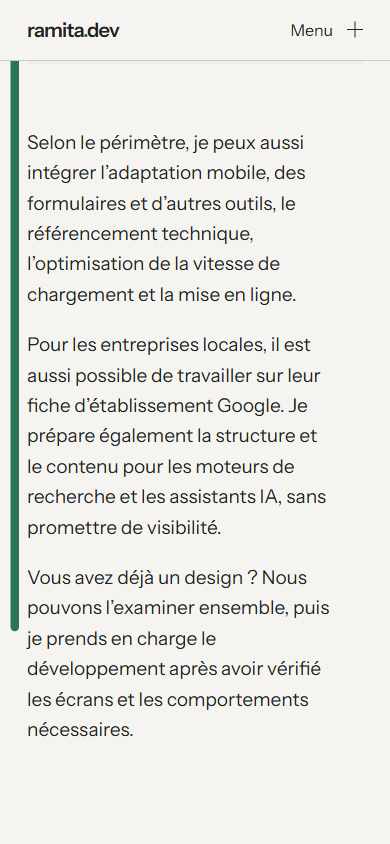
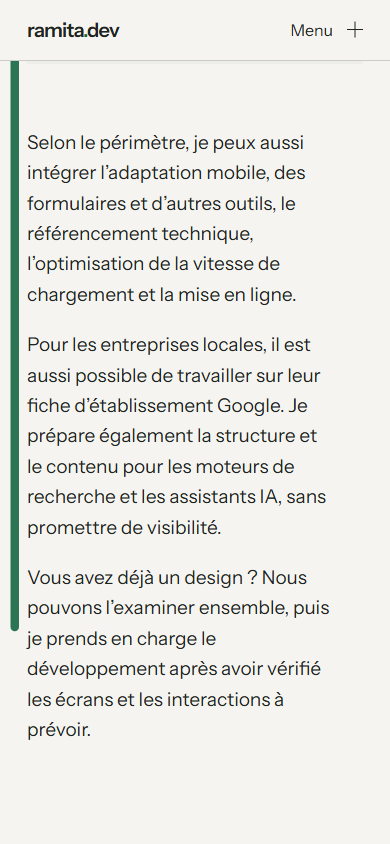
Update H8 report for final copy package

Changed region(s): [[0.4308, 0.8009, 0.8, 0.8626], [0.0615, 0.8318, 0.3385, 0.8934]]

diff --git a/qa/h8-report.md b/qa/h8-report.md
@@ -26,13 +26,13 @@ Ramiro detuvo la preparación/publicación antes de cargar el paquete actual a H
 
 - Corrección espacial de la línea: `progress()` ya no usa `data-ramiro-scene` para cambiar globalmente `[data-line-path]`. El path base queda en negro y el mismo path, progreso, nodos y timings se pinta de blanco sólo dentro de un `clipPath` basado en la caja real de `.about`; sus límites se recalculan en los rebuilds de layout/resize. H7 documentó una implementación global incorrecta y verificó color computado, no superposición espacial. La regresión vigente en `qa/h8-line-clipping-results.json` pasó otra vez después del nuevo copy: **31 estados**, cinco idiomas, 390/1440 px, ambos sentidos de scroll, resize, diez pares theme/accent, reduced motion y seis capturas; cero overflow, errores de consola, requests fallidos o fallos. Path y comandos conservan su estructura; diferencia máxima de coordenadas de referencia <0,01 CSS px. El pulso de 3,5 s, delay final de 0,8 s y fade de 0,18 s están sincronizados entre ambas representaciones.
 - Copy final de Servicios: Ramiro actualizó el segundo y tercer párrafo para evitar reiterar «puedo». ES exacto y versiones naturales EN/PT/FR/JA están en `src/content/locales.ts`, `prototypes/v2-h4/v2/ES-COPY-APPROVED.md` y `docs/locales/`. No cambiaron los demás textos, layout, estilos, motion ni código de geometría.
-- Commits de código: `d7850120a72af9f447cdb3fcf28c7bbf26b53cc3` (`Fix black accent path clipping in Ramiro scene`), `78e770dc5d63296dd8b50db9fb4b1bf8a01d0666` (`Align inverse Ramiro node pulse timing`) y `e3eb2a2b4caff95ba2a3a295ab8570d43aeb030f` (`Update Services copy before H8 release`). Push normal exitoso a `origin/main`; `e3eb2a2` es el commit fuente del paquete vigente.
+- Commits de código: `d7850120a72af9f447cdb3fcf28c7bbf26b53cc3` (`Fix black accent path clipping in Ramiro scene`), `78e770dc5d63296dd8b50db9fb4b1bf8a01d0666` (`Align inverse Ramiro node pulse timing`), `e3eb2a2b4caff95ba2a3a295ab8570d43aeb030f` (`Update Services copy before H8 release`) y `1deb12b0c7857fad5fcac360153d184c155abd38` (`Polish localized Services copy`). Push normal exitoso a `origin/main`; `1deb12b` es el commit fuente del paquete vigente.
 - `pnpm build`: PASS, seis páginas estáticas con `404.html` y `sitemap.xml`. `pnpm check`: PASS, 49 archivos, 0 errores, 0 warnings, 0 hints. El preflight local 404 conserva **6 casos PASS** en `qa/h8-preflight-results.json`.
-- QA de copy, directamente sobre Vercel: **15/15 PASS**, cinco idiomas × 320/390/1440 px; texto exacto comprobado, tres párrafos, sin overflow, sin cruces de la línea con el texto, sin errores de consola ni requests fallidos. Diez capturas (cinco idiomas × 390/1440) están en `qa/h8-services-copy/` y el resultado en `qa/h8-services-copy-results.json`.
-- Deployment vigente verificado en [portfolio-rrrramita.vercel.app](https://portfolio-rrrramita.vercel.app/) con el commit `e3eb2a2`; QA Playwright remoto PASS. El alias es de QA: el dominio final `ramita.dev` no se actualizó.
[2 lines of base64/hex data omitted]
-- Manifiesto vigente: `release/ramita-h8-e3eb2a2b4caff95ba2a3a295ab8570d43aeb030f.sha256`. Verificación: 25 miembros, hash de cada archivo y del ZIP coincidente, `404.html` presente, cero fallos. `release/` queda fuera de Git.
+- QA de copy, directamente sobre Vercel y el commit final: **15/15 PASS**, cinco idiomas × 320/390/1440 px; texto exacto comprobado, tres párrafos, sin overflow, sin cruces de la línea con el texto, sin errores de consola ni requests fallidos. Diez capturas (cinco idiomas × 390/1440) están en `qa/h8-services-copy/` y el resultado en `qa/h8-services-copy-results.json`.
+- Deployment vigente verificado en [portfolio-rrrramita.vercel.app](https://portfolio-rrrramita.vercel.app/) con el commit `1deb12b`; las cinco rutas respondieron HTTP 200 y sirvieron sus textos actuales. QA Playwright remoto PASS. El alias es de QA: el dominio final `ramita.dev` no se actualizó.
[2 lines of base64/hex data omitted]
+- Manifiesto vigente: `release/ramita-h8-1deb12b0c7857fad5fcac360153d184c155abd38.sha256`. Verificación: 25 miembros, hash de cada archivo, del ZIP y de `dist/` coincidentes; `404.html` presente, cero fallos. `release/` queda fuera de Git.
 - `hosting/README.md` indica copia previa, extracción en la raíz pública, fusión del `.htaccess`, purga de caché si hace falta, comparación y rollback. `qa/h8-production-checks.cjs` sigue preparado para comprobar respuestas, 25 hashes publicados, metadata, links y smoke en el dominio final.
 
 ## Línea base automatizada antes de la carga

diff --git a/docs/ROADMAP.md b/docs/ROADMAP.md
@@ -122,7 +122,7 @@ Objetivo y entregables: Publicar y comprobar dominio/HTTPS, contacto, SEO y asse
 
 Cierre: Todos los criterios de DONE.md, incluidos producción y performance, satisfechos antes de STATUS: DONE.
 
[2 lines of base64/hex data omitted]
 
 ## Auditoría V2-H0
 
